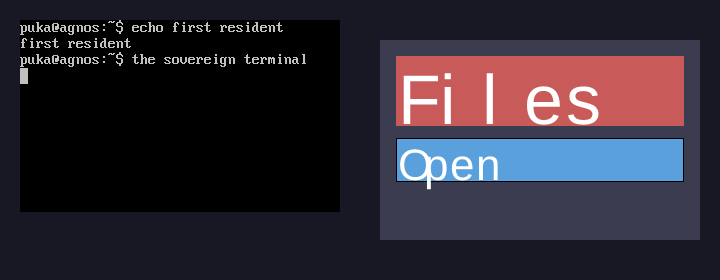
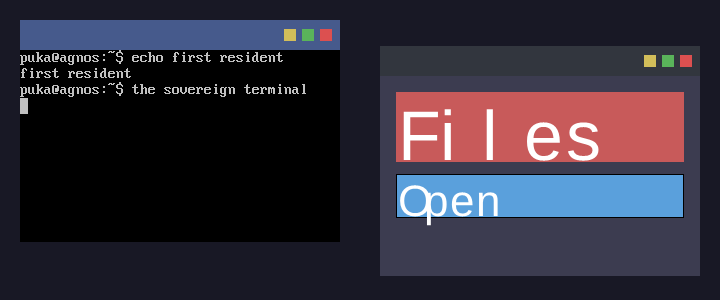
render decouple

diff --git a/docs/development/state.md b/docs/development/state.md
@@ -5,13 +5,23 @@
 
 ## Version
 
-**0.6.0** (2026-07-08) — **native display protocol (setu server + frame-loop integration)**:
-the compositor side of the sovereign dhancha ↔ aethersafha wire — `src/setu_server.cyr`
-(AF_UNIX transport, length-from-header framing), `src/setu_dispatch.cyr`
+**0.7.0** (2026-07-08) — **renderer decoupled from the shell (reusable window chrome)**:
+the shell status-panel renderer (`render_shell_panel` + `panel_bar_w`/`panel_net_color`/
+`PanelK`), which coupled to `shell.cyr`'s `SystemStatus` + `SH_NetStatus`, moved out of
+`render.cyr` into a new **`src/shell_render.cyr`** (the shell → render bridge). `render.cyr`
+now holds only shell-agnostic primitives (`fill_rect`, `rend_blend`, damage tracker,
+`deco_*`, `render_window`/`render_frame`, kashi `draw_char`/`draw_text`) and is reusable
+on its own — `programs/puka_desktop_probe.cyr` now includes it directly and frames each
+hosted setu client (puka, dhancha) with real compositor chrome including **bitmap title
+TEXT**, replacing its inlined fill-only titlebar. Pure module split; behavior identical.
+
+Built on **0.6.0** (2026-07-08) — **native display protocol (setu server + frame-loop
+integration)**: the compositor side of the sovereign dhancha ↔ aethersafha wire —
+`src/setu_server.cyr` (AF_UNIX transport, length-from-header framing), `src/setu_dispatch.cyr`
 (`CREATE_SURFACE` → real `Window`, buffer receive + bhumi-framebuffer blit, verified),
 and `src/main.cyr` standing up a non-blocking setu listener that composites real client
 presents in the actual frame loop. Proven on Linux against a real dhancha `DhClient`;
-`AF_UNIX` fail-closes on agnos so the agnos loop is untouched. Adds the new `setu` 0.1.0
+`AF_UNIX` fail-closes on agnos so the agnos loop is untouched. Adds the `setu` 0.1.0
 contract-lib dependency. The final kernel-scanout hop is agnos-only.
 
 Built on **0.5.0** (2026-07-03) — **Bite C (built-in apps) — C1 + C2**: the app framework
@@ -35,7 +45,7 @@ presentation), **0.4.0** (mehman foreign-app hosting + kavach-sandboxed guest ex
 ## Source
 
 - Rust reference: 27,207 lines at `rust-old/` (frozen, do not edit).
-- Cyrius port: **19 modules**; compiles clean + runs on the bhumi seam.
+- Cyrius port: **20 modules**; compiles clean + runs on the bhumi seam.
   - **Core (M1/Bite A)** — `geom`, `window`, `compositor`, `render`, `input`, `main`.
     compositor: workspaces + context types + move/switch + secure/agent-aware modes
     + window-at-point hit-test; renderer: alpha blend + damage tracking + window
@@ -49,7 +59,9 @@ presentation), **0.4.0** (mehman foreign-app hosting + kavach-sandboxed guest ex
   - **Wiring (B3, complete)** — `desktop` aggregate owns the compositor + all 8 leaf
     managers, created by `main`. `render_desktop` is the unified frame: clear to the
     **theme** background (`desk_bg_color`), paint windows, draw the **shell** status
-    panel (`render_shell_panel` — cpu/mem/battery bars, net dot, notification badge).
+    panel (`render_shell_panel` — cpu/mem/battery bars, net dot, notification badge —
+    which lives in `shell_render.cyr`, the shell → render bridge, so `render.cyr`
+    itself carries no shell symbols and is reusable standalone).
     Live cross-subsystem links: compositor→accessibility (`desktop_sync_accessibility`),
     theme→renderer, shell→renderer, shell_integration tray. (ai/security/gestures/
     plugin instantiated; deeper feature wiring is follow-on.)
@@ -76,9 +88,10 @@ presentation), **0.4.0** (mehman foreign-app hosting + kavach-sandboxed guest ex
 
 ## Tests
 
-- **17 `.tcyr` files, all green.** Core: `aethersafha` (38), `render` (34 — decoration
-  hit-test + shell-panel bars + bitmap text pixel test), `input` (13), `leaf_modules`
-  (11), `desktop` (15). mehman: `foreign` (23 — guest spec/surface + host-as-window +
+- **18 `.tcyr` files, all green.** Core: `aethersafha` (38), `render` (29 — decoration
+  hit-test + bitmap text pixel test; now shell-free), `shell_render` (14 — panel bars +
+  net-status color + `render_shell_panel` shell→framebuffer smoke), `input` (13),
+  `leaf_modules` (11), `desktop` (15). mehman: `foreign` (23 — guest spec/surface + host-as-window +
   sandboxed run + capture + **presentation pixel test**). capture: `screen_capture`
   (90 — permissions / rate-limit / secure-mode / region-clamp / window / history +
   RAW/BMP/PNG encoder checksums), `screen_recording` (72 — session lifecycle / state

diff --git a/CHANGELOG.md b/CHANGELOG.md
@@ -4,6 +4,34 @@ All notable changes to this project will be documented in this file.
 
 The format is based on [Keep a Changelog](https://keepachangelog.com/en/1.1.0/).
 
+## [0.7.0] - 2026-07-08 — renderer decoupled from the shell (reusable window chrome)
+
+### Changed
+
+- **`src/render.cyr` is now free of `shell.cyr` symbols — the core window
+  renderer is reusable on its own.** The shell status-panel renderer
+  (`render_shell_panel` + `panel_bar_w` / `panel_net_color` + the `PanelK`
+  metrics), which coupled to `shell.cyr`'s `SystemStatus` + `SH_NetStatus`,
+  moved out of `render.cyr` into a new **`src/shell_render.cyr`** — the one place
+  the desktop shell's data model meets the framebuffer (the shell → render
+  bridge). `render.cyr` now holds only shell-agnostic primitives: `fill_rect`,
+  `rend_blend`, the damage tracker, `deco_*` decoration hit-testing, `render_window`
+  / `render_frame`, and the kashi bitmap-text `draw_char` / `draw_text` /
+  `draw_text_lines`. `main.cyr` gains the `shell_render.cyr` include;
+  `desktop.cyr`'s `render_desktop` is unchanged. Pure module split — behavior is
+  identical.
+- **`tests/render.tcyr` no longer includes `shell.cyr`** — proving `render.cyr`
+  stands alone. The panel bar-graph assertions moved to the new
+  **`tests/shell_render.tcyr`**, which adds `panel_net_color` mapping checks and a
+  `render_shell_panel` shell → framebuffer smoke test. **18 `.tcyr` suites green.**
+- **`programs/puka_desktop_probe.cyr` now reuses `render_window` + `draw_text`**
+  for native window chrome. Because `render.cyr` is decoupled, the probe includes
+  it directly and frames each hosted setu client (puka, dhancha) with the real
+  compositor titlebar — focus tint, traffic-light buttons, **and bitmap title
+  TEXT** ("puka - terminal", "dhancha - files"). The previous inlined, fill-only
+  `pdp_titlebar` (managed windows without title text) is gone. Verified end-to-end
+  on Linux: two managed, **titled** windows composited to a PPM.
+
 ## [0.6.0] - 2026-07-08 — native display protocol (setu server + frame-loop integration)
 
 ### Added